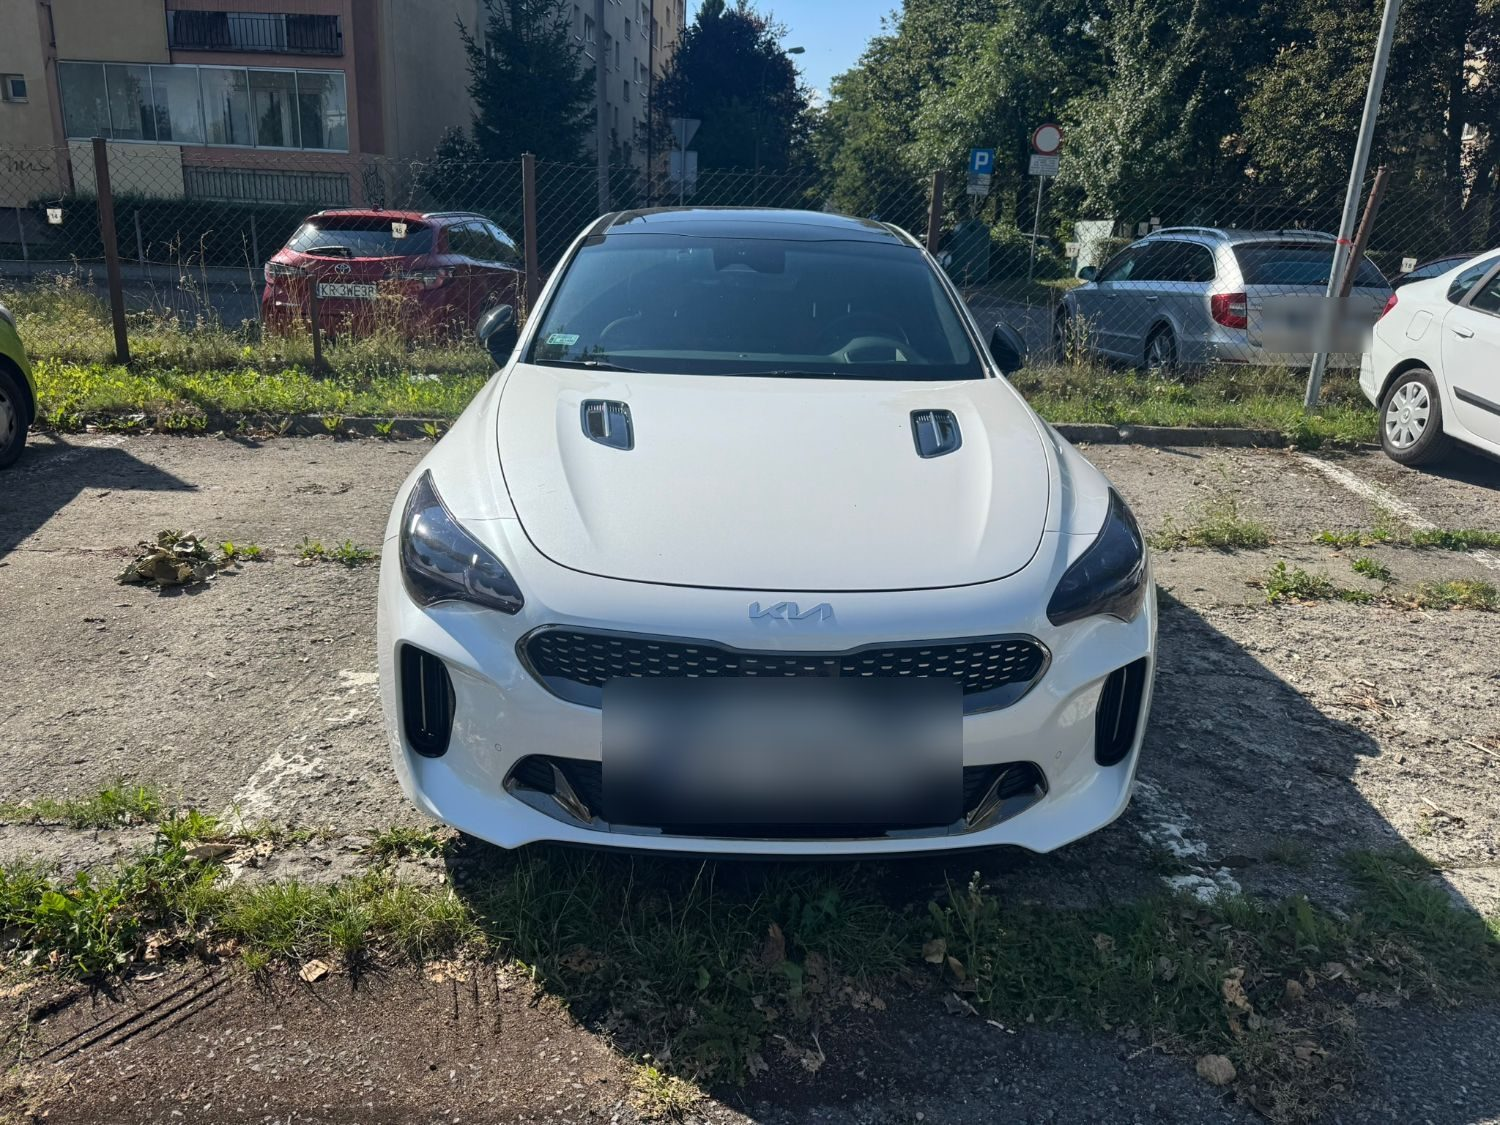
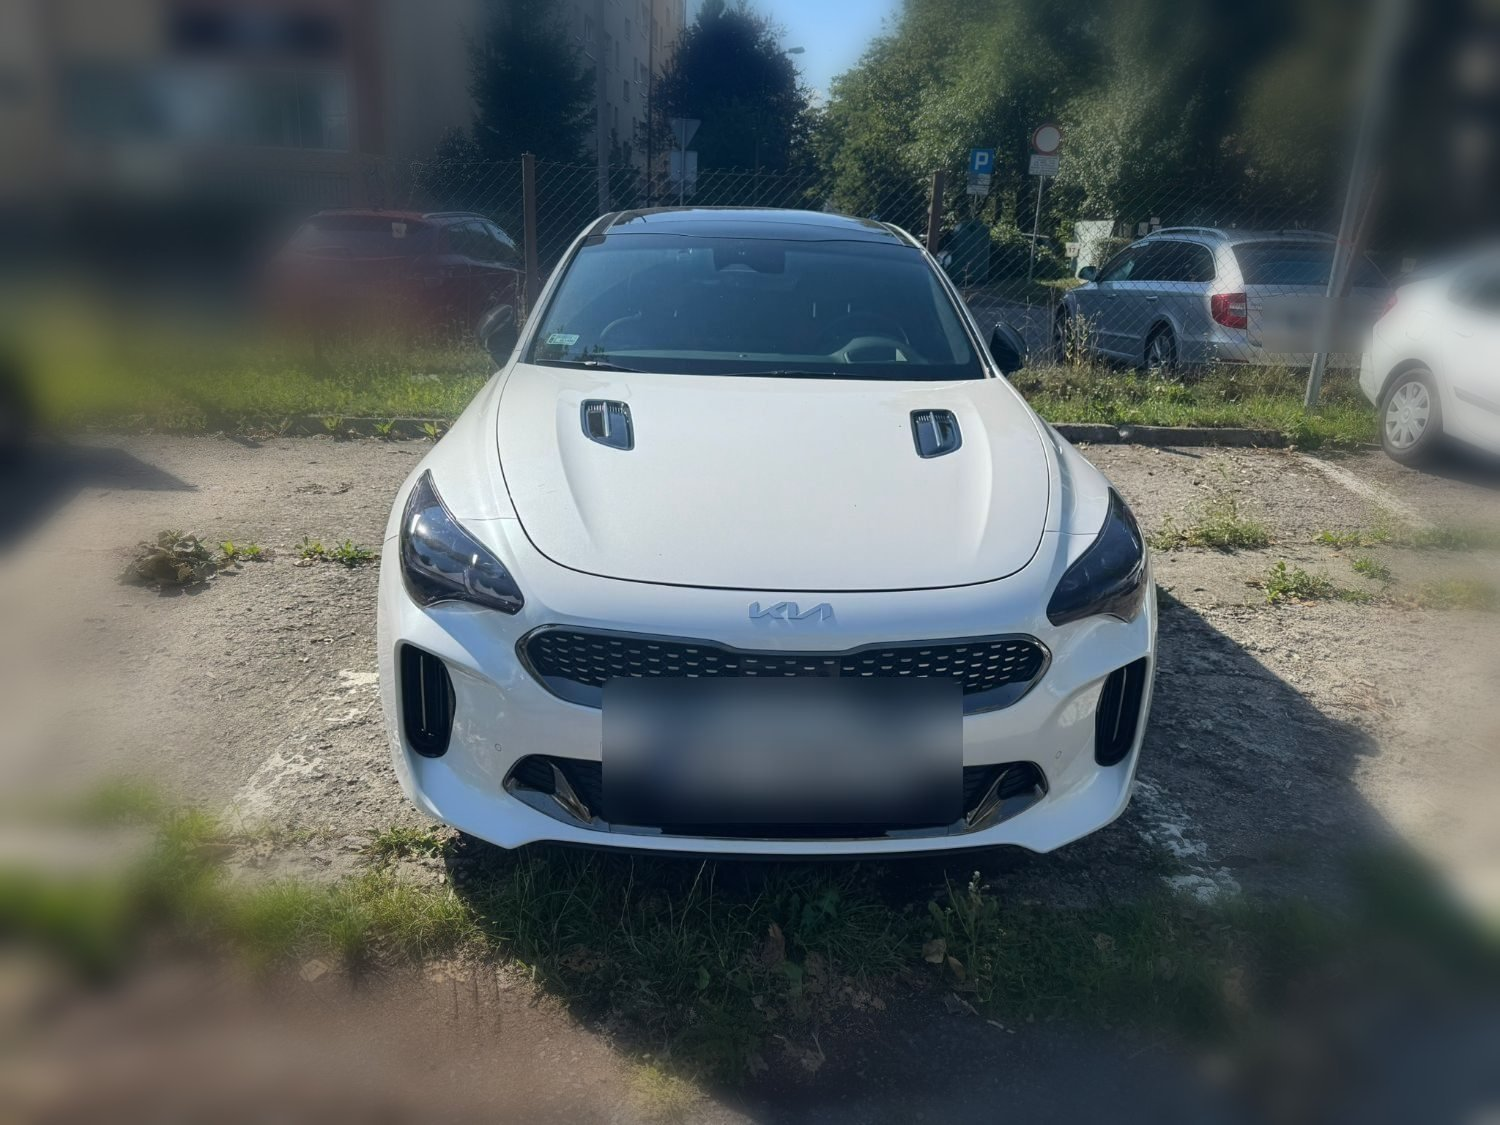
Kafelki Detale: grafiki/zdjecia dla kazdej karty + nowy kafelek o analogowych zegarach; miekkie rozmycie tla (inne auta) na zdjeciach plenerowych

diff --git a/index.html b/index.html
@@ -98,47 +98,64 @@
     to auto naprawdę jeździ.</p>
 
     <div class="specs-grid">
-      <div class="spec-card spec-card-lead">
-        <span class="spec-icon" aria-hidden="true">
-          <svg viewBox="0 0 32 32" fill="none"><path d="M6 4v24M6 5h13l-2.5 4L19 13H6" stroke="currentColor" stroke-width="2" stroke-linejoin="round"/></svg>
-        </span>
-        <h3 data-i18n="specs.c1.h">Kia Stinger GT</h3>
-        <p data-i18n="specs.c1.p">Wersja liftingowana (nowe logo Kia na grillu i klapie) — najbardziej dopracowana odsłona Stingera.</p>
+      <div class="spec-card spec-card-lead spec-card-photo" style="background-image:url('assets/img/cards/lead.jpg')">
+        <div class="spec-card-content">
+          <span class="spec-icon" aria-hidden="true">
+            <svg viewBox="0 0 32 32" fill="none"><path d="M6 4v24M6 5h13l-2.5 4L19 13H6" stroke="currentColor" stroke-width="2" stroke-linejoin="round"/></svg>
+          </span>
+          <h3 data-i18n="specs.c1.h">Kia Stinger GT</h3>
+          <p data-i18n="specs.c1.p">Wersja liftingowana (nowe logo Kia na grillu i klapie) — najbardziej dopracowana odsłona Stingera.</p>
+        </div>
       </div>
-      <div class="spec-card">
-        <span class="spec-icon" aria-hidden="true">
-          <svg viewBox="0 0 32 32" fill="none"><path d="M16 4c3 4-2 6-2 10a5 5 0 0010 0c0-3-2-5-3-8 1 5-2 6-2 3 0-2 1-3 0-5-1 3-3 2-3-2z" stroke="currentColor" stroke-width="2" stroke-linejoin="round"/></svg>
+      <div class="spec-card spec-card-graphic">
+        <span class="spec-icon spec-icon-lg" aria-hidden="true">
+          <svg viewBox="0 0 32 32" fill="none"><path d="M16 4c3 4-2 6-2 10a5 5 0 0010 0c0-3-2-5-3-8 1 5-2 6-2 3 0-2 1-3 0-5-1 3-3 2-3-2z" stroke="currentColor" stroke-width="1.6" stroke-linejoin="round"/></svg>
         </span>
         <h3 data-i18n="specs.c2.h">Silnik V6 Twin-Turbo</h3>
         <p data-i18n="specs.c2.p">Poczwórny wydech i odznaka GT to podpis mocniejszej, sześciocylindrowej jednostki 3.3 biturbo.</p>
       </div>
-      <div class="spec-card">
-        <span class="spec-icon" aria-hidden="true">
-          <svg viewBox="0 0 32 32" fill="none"><path d="M4 22c0-6 5-16 12-16 5 0 8 3 8 3s-9 1-9 9c0 5 5 5 5 1" stroke="currentColor" stroke-width="2" stroke-linecap="round"/><circle cx="9" cy="24" r="2" stroke="currentColor" stroke-width="2"/></svg>
-        </span>
-        <h3 data-i18n="specs.c3.h">Folia matowa fade</h3>
-        <p data-i18n="specs.c3.p">Przejście z czerni w czerwień na masce i błotnikach — wykonane na bazie fabrycznej bieli.</p>
+      <div class="spec-card spec-card-photo" style="background-image:url('assets/img/cards/wrap.jpg')">
+        <div class="spec-card-content">
+          <span class="spec-icon" aria-hidden="true">
+            <svg viewBox="0 0 32 32" fill="none"><path d="M4 22c0-6 5-16 12-16 5 0 8 3 8 3s-9 1-9 9c0 5 5 5 5 1" stroke="currentColor" stroke-width="2" stroke-linecap="round"/><circle cx="9" cy="24" r="2" stroke="currentColor" stroke-width="2"/></svg>
+          </span>
+          <h3 data-i18n="specs.c3.h">Folia matowa fade</h3>
+          <p data-i18n="specs.c3.p">Przejście z czerni w czerwień na masce i błotnikach — wykonane na bazie fabrycznej bieli.</p>
+        </div>
       </div>
-      <div class="spec-card">
-        <span class="spec-icon" aria-hidden="true">
-          <svg viewBox="0 0 32 32" fill="none"><path d="M7 10h18l3 8v9a1 1 0 01-1 1h-2a1 1 0 01-1-1v-2H8v2a1 1 0 01-1 1H5a1 1 0 01-1-1v-9l3-8z" stroke="currentColor" stroke-width="2" stroke-linejoin="round"/><circle cx="9" cy="21" r="1.5" fill="currentColor"/><circle cx="23" cy="21" r="1.5" fill="currentColor"/></svg>
+      <div class="spec-card spec-card-graphic">
+        <span class="spec-icon spec-icon-lg" aria-hidden="true">
+          <svg viewBox="0 0 32 32" fill="none"><path d="M7 10h18l3 8v9a1 1 0 01-1 1h-2a1 1 0 01-1-1v-2H8v2a1 1 0 01-1 1H5a1 1 0 01-1-1v-9l3-8z" stroke="currentColor" stroke-width="1.6" stroke-linejoin="round"/><circle cx="9" cy="21" r="1.5" fill="currentColor"/><circle cx="23" cy="21" r="1.5" fill="currentColor"/></svg>
         </span>
         <h3 data-i18n="specs.c4.h">Czerwona nappa</h3>
         <p data-i18n="specs.c4.p">Skórzane fotele w kolorze dopasowanym do charakteru oklejenia nadwozia.</p>
       </div>
-      <div class="spec-card">
-        <span class="spec-icon" aria-hidden="true">
-          <svg viewBox="0 0 32 32" fill="none"><rect x="5" y="9" width="22" height="14" rx="2" stroke="currentColor" stroke-width="2"/><path d="M5 14h22M12 9v14M20 9v14" stroke="currentColor" stroke-width="1.5"/></svg>
-        </span>
-        <h3 data-i18n="specs.c5.h">Dach panoramiczny</h3>
-        <p data-i18n="specs.c5.p">Przeszklony, elektrycznie sterowany dach na całej długości kabiny.</p>
+      <div class="spec-card spec-card-photo" style="background-image:url('assets/img/cards/roof.jpg')">
+        <div class="spec-card-content">
+          <span class="spec-icon" aria-hidden="true">
+            <svg viewBox="0 0 32 32" fill="none"><rect x="5" y="9" width="22" height="14" rx="2" stroke="currentColor" stroke-width="2"/><path d="M5 14h22M12 9v14M20 9v14" stroke="currentColor" stroke-width="1.5"/></svg>
+          </span>
+          <h3 data-i18n="specs.c5.h">Dach panoramiczny</h3>
+          <p data-i18n="specs.c5.p">Przeszklony, elektrycznie sterowany dach na całej długości kabiny.</p>
+        </div>
       </div>
-      <div class="spec-card">
-        <span class="spec-icon" aria-hidden="true">
-          <svg viewBox="0 0 32 32" fill="none"><circle cx="16" cy="16" r="11" stroke="currentColor" stroke-width="2"/><circle cx="16" cy="16" r="3" stroke="currentColor" stroke-width="2"/><path d="M16 5v4M16 23v4M5 16h4M23 16h4M8.2 8.2l2.8 2.8M21 21l2.8 2.8M23.8 8.2L21 11M11 21l-2.8 2.8" stroke="currentColor" stroke-width="2" stroke-linecap="round"/></svg>
+      <div class="spec-card spec-card-photo" style="background-image:url('assets/img/cards/wheel.jpg')">
+        <div class="spec-card-content">
+          <span class="spec-icon" aria-hidden="true">
+            <svg viewBox="0 0 32 32" fill="none"><circle cx="16" cy="16" r="11" stroke="currentColor" stroke-width="2"/><circle cx="16" cy="16" r="3" stroke="currentColor" stroke-width="2"/><path d="M16 5v4M16 23v4M5 16h4M23 16h4M8.2 8.2l2.8 2.8M21 21l2.8 2.8M23.8 8.2L21 11M11 21l-2.8 2.8" stroke="currentColor" stroke-width="2" stroke-linecap="round"/></svg>
+          </span>
+          <h3 data-i18n="specs.c6.h">Felgi wielosprychowe</h3>
+          <p data-i18n="specs.c6.p">Czarno-polerowane koła w stylu GT, dopełniające sylwetkę liftbacka.</p>
+        </div>
+      </div>
+      <div class="spec-card spec-card-banner">
+        <span class="spec-icon spec-icon-lg" aria-hidden="true">
+          <svg viewBox="0 0 32 32" fill="none"><circle cx="16" cy="16" r="12" stroke="currentColor" stroke-width="1.6"/><path d="M16 16l5-3M16 16V9" stroke="currentColor" stroke-width="1.6" stroke-linecap="round"/><path d="M16 5v2M16 25v2M27 16h-2M7 16H5M23.6 8.4l-1.4 1.4M9.8 22.2l-1.4 1.4M23.6 23.6l-1.4-1.4M9.8 9.8L8.4 8.4" stroke="currentColor" stroke-width="1.4" stroke-linecap="round"/></svg>
         </span>
-        <h3 data-i18n="specs.c6.h">Felgi wielosprychowe</h3>
-        <p data-i18n="specs.c6.p">Czarno-polerowane koła w stylu GT, dopełniające sylwetkę liftbacka.</p>
+        <div class="spec-card-banner-text">
+          <h3 data-i18n="specs.c7.h">Analogowe zegary, minimum elektroniki</h3>
+          <p data-i18n="specs.c7.p">To prawdopodobnie jedno z ostatnich Kia z klasycznymi, analogowymi wskaźnikami zamiast cyfrowego ekranu — i z zaskakująco małą ingerencją systemów elektronicznych w samo prowadzenie. Auto reaguje tak, jak powinno reagować auto, a nie komputer za kierownicą.</p>
+        </div>
       </div>
     </div>
   </div>

diff --git a/style.css b/style.css
@@ -364,16 +364,10 @@ em { font-style: normal; color: var(--red-bright); }
 .spec-card-lead {
   grid-column: span 3;
   grid-row: span 2;
-  background: linear-gradient(150deg, var(--panel), var(--bg-alt));
-  display: flex;
-  flex-direction: column;
-  justify-content: flex-end;
-  padding: 2.5rem;
+  padding: 0;
 }
-.spec-card-lead .spec-icon { width: 44px; height: 44px; margin-bottom: 2rem; }
-.spec-card-lead h3 { font-size: 1.5rem; }
-.specs-grid .spec-card:nth-child(2) { grid-column: span 3; }
-.specs-grid .spec-card:nth-child(3) { grid-column: span 3; }
+.specs-grid .spec-card-graphic:nth-of-type(2) { grid-column: span 3; }
+.spec-card-photo:nth-of-type(3) { grid-column: span 3; }
 .spec-icon {
   display: block;
   width: 30px;
@@ -381,9 +375,63 @@ em { font-style: normal; color: var(--red-bright); }
   margin-bottom: 1.2rem;
   color: var(--red-bright);
 }
-.spec-icon svg { width: 100%; height: 100%; }
+.spec-icon svg { width: 100%; height: 100%; display: block; }
+.spec-icon-lg { width: 42px; height: 42px; }
 .spec-card h3 { font-size: 1.1rem; margin-bottom: 0.6rem; }
 .spec-card p { color: var(--text-dim); font-size: 0.92rem; max-width: 42ch; }
+
+/* photo cards */
+.spec-card-photo {
+  position: relative;
+  padding: 0;
+  overflow: hidden;
+  background-size: cover;
+  background-position: center;
+  min-height: 260px;
+}
+.spec-card-photo::before {
+  content: "";
+  position: absolute;
+  inset: 0;
+  background: linear-gradient(180deg, rgba(var(--shadow-color), 0.05) 0%, rgba(var(--shadow-color), 0.55) 55%, rgba(var(--shadow-color), 0.92) 100%);
+}
+.spec-card-photo .spec-card-content {
+  position: relative;
+  z-index: 1;
+  padding: 2rem;
+  display: flex;
+  flex-direction: column;
+  justify-content: flex-end;
+  height: 100%;
+  min-height: 260px;
+}
+.spec-card-photo .spec-icon { color: #fff; }
+.spec-card-photo h3 { color: #fff; }
+.spec-card-photo p { color: rgba(255,255,255,0.78); }
+.spec-card-lead .spec-card-content { padding: 2.5rem; min-height: 100%; }
+.spec-card-lead h3 { font-size: 1.5rem; }
+.spec-card-lead .spec-icon { width: 40px; height: 40px; margin-bottom: 1.6rem; }
+
+/* icon-only "graphic" cards get a subtle diagonal texture instead of a flat panel */
+.spec-card-graphic {
+  background-image:
+    repeating-linear-gradient(135deg, rgba(255,255,255,0.025) 0px, rgba(255,255,255,0.025) 1px, transparent 1px, transparent 14px),
+    linear-gradient(150deg, var(--panel), var(--bg-alt));
+}
+
+/* full-width banner card */
+.spec-card-banner {
+  grid-column: span 6;
+  display: flex;
+  align-items: center;
+  gap: 2rem;
+  background:
+    radial-gradient(circle at 8% 30%, rgba(var(--shadow-color), 0) 0%, transparent 45%),
+    linear-gradient(120deg, var(--panel) 0%, var(--bg-alt) 100%);
+}
+.spec-card-banner .spec-icon { margin-bottom: 0; flex-shrink: 0; }
+.spec-card-banner-text h3 { font-size: 1.2rem; }
+.spec-card-banner-text p { max-width: 60ch; }
 
 /* GALLERY */
 .gallery { padding: 7rem 1.5rem 8rem; }
@@ -538,12 +586,14 @@ em { font-style: normal; color: var(--red-bright); }
   .specs-grid { grid-template-columns: repeat(2, 1fr); }
   .spec-card { grid-column: span 1 !important; }
   .spec-card-lead { grid-row: span 1 !important; }
+  .spec-card-banner { grid-column: span 2 !important; flex-direction: column; align-items: flex-start; text-align: left; }
   .gallery-grid { grid-template-columns: repeat(2, 1fr); }
   .video-grid { grid-template-columns: repeat(2, 1fr); }
   .contact-inner { grid-template-columns: 1fr; }
 }
 @media (max-width: 520px) {
   .specs-grid { grid-template-columns: 1fr; }
+  .spec-card-banner { grid-column: span 1 !important; }
   .hero-content { padding-bottom: 4rem; }
 }
 

diff --git a/script.js b/script.js
@@ -34,6 +34,8 @@ const translations = {
     "specs.c5.p": "Przeszklony, elektrycznie sterowany dach na całej długości kabiny.",
     "specs.c6.h": "Felgi wielosprychowe",
     "specs.c6.p": "Czarno-polerowane koła w stylu GT, dopełniające sylwetkę liftbacka.",
+    "specs.c7.h": "Analogowe zegary, minimum elektroniki",
+    "specs.c7.p": "To prawdopodobnie jedno z ostatnich Kia z klasycznymi, analogowymi wskaźnikami zamiast cyfrowego ekranu — i z zaskakująco małą ingerencją systemów elektronicznych w samo prowadzenie. Auto reaguje tak, jak powinno reagować auto, a nie komputer za kierownicą.",
     "gallery.label": "03 — Galeria",
     "gallery.h2": "Zobacz je z każdej strony",
     "gallery.note": "Kliknij zdjęcie, aby powiększyć.",
@@ -94,6 +96,8 @@ const translations = {
     "specs.c5.p": "Glazed, power-operated roof spanning the full length of the cabin.",
     "specs.c6.h": "Multi-spoke wheels",
     "specs.c6.p": "Black machined-finish GT-style wheels rounding out the liftback silhouette.",
+    "specs.c7.h": "Analog gauges, minimal electronics",
+    "specs.c7.p": "This is likely one of the last Kias with classic analog gauges instead of a digital screen — and with surprisingly little electronic intervention in the actual driving. The car responds the way a car should, not the way a computer behind the wheel does.",
     "gallery.label": "03 — Gallery",
     "gallery.h2": "See it from every angle",
     "gallery.note": "Click a photo to enlarge.",
